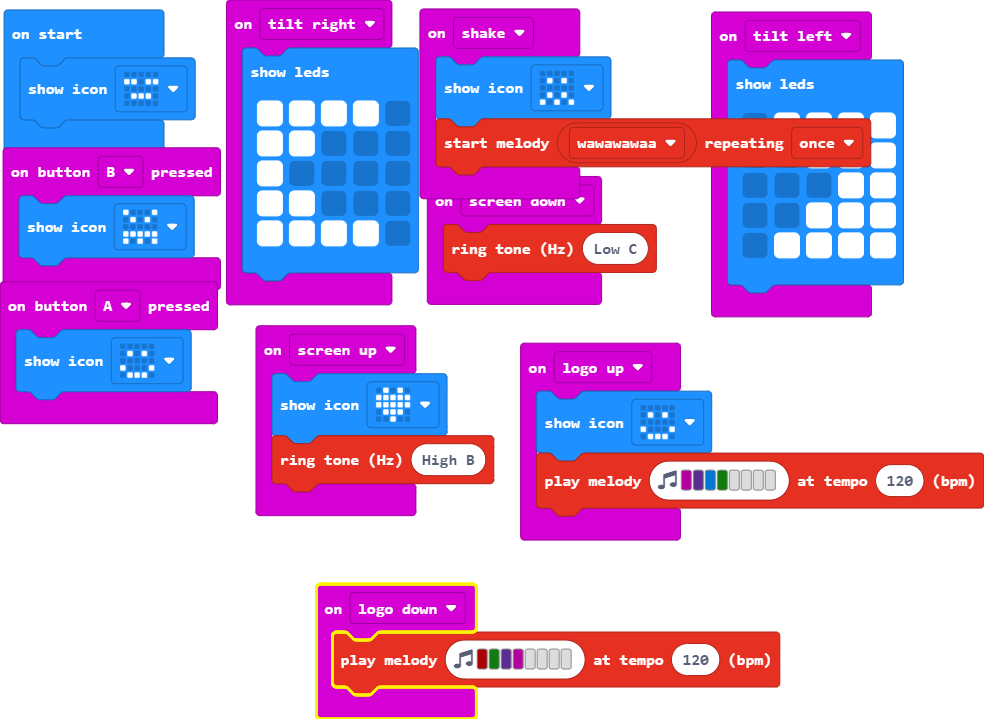
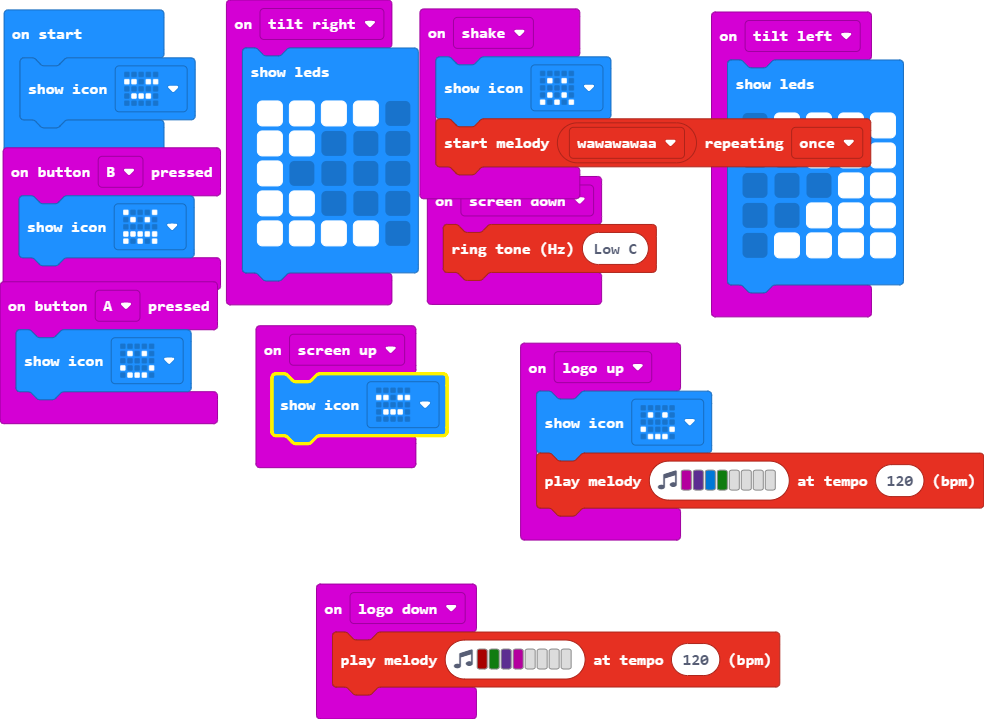
Update main.blocks, main.ts

Changed region(s): [[0.2439, 0.5202, 0.5183, 0.7344], [0.3049, 0.7955, 0.4878, 0.9179], [0.3049, 0.9485, 0.4878, 1.0]]

diff --git a/main.ts b/main.ts
@@ -15,8 +15,7 @@ input.onGesture(Gesture.TiltLeft, function () {
         `)
 })
 input.onGesture(Gesture.ScreenUp, function () {
-    basic.showIcon(IconNames.Heart)
-    music.ringTone(988)
+    basic.showIcon(IconNames.Asleep)
 })
 input.onGesture(Gesture.ScreenDown, function () {
     music.ringTone(131)
